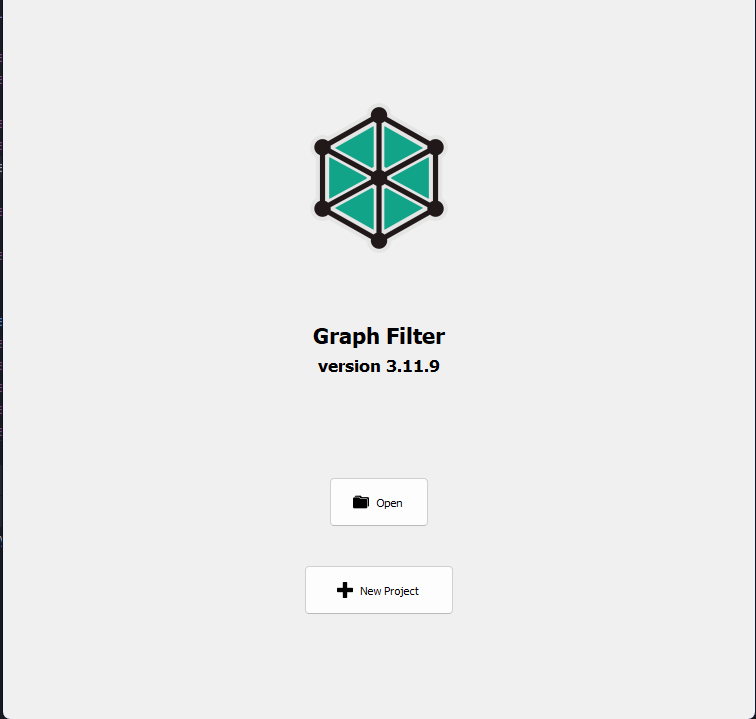
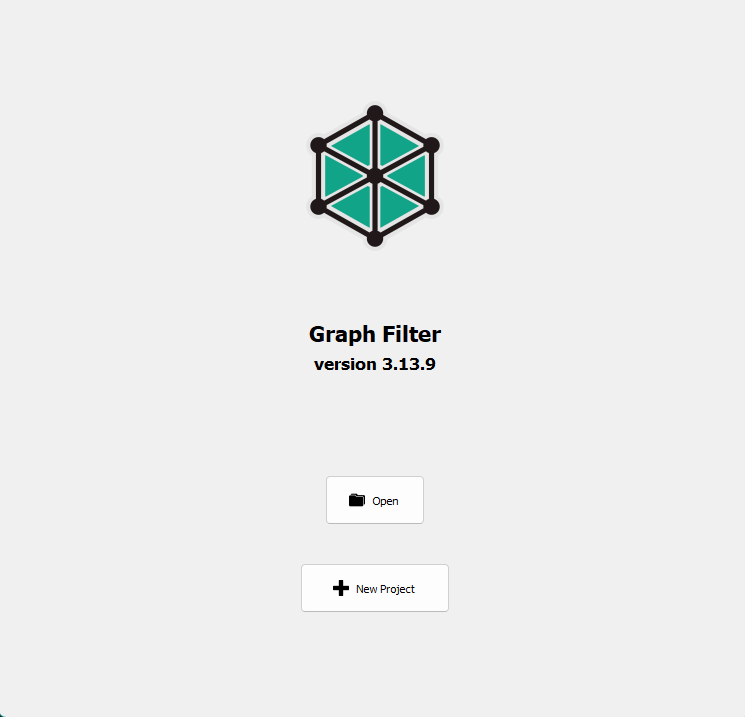
Implement `Diamond-Free` invariants (#463)

diff --git a/source/store/operations_and_invariants/bool_invariants.py b/source/store/operations_and_invariants/bool_invariants.py
@@ -1,5 +1,3 @@
-import itertools
-
 import grinpy as gp
 import networkx as nx
 import networkx.algorithms.threshold
@@ -829,11 +827,7 @@ class GemFree(InvariantBool):
         gem_graph.add_nodes_from(range(5))
         gem_graph.add_edges_from([(0, 1), (0, 2), (0, 3), (0, 4), (1, 2), (2, 3), (3, 4)])
 
-        for node_subset in set(itertools.combinations(graph.nodes(), 5)):
-            subgraph = graph.subgraph(list(node_subset))
-            if nx.is_isomorphic(subgraph, gem_graph):
-                return False
-        return True
+        return not Utils.has_isomorphic_subgraph(graph, gem_graph)
 
     @staticmethod
     def print(graph, precision):
@@ -851,12 +845,47 @@ class DartFree(InvariantBool):
         new_node = max(dart_graph.nodes()) + 1
         dart_graph.add_edge(new_node, 2)
 
-        for node_subset in set(itertools.combinations(graph.nodes(), 5)):
-            subgraph = graph.subgraph(list(node_subset))
-            if nx.is_isomorphic(subgraph, dart_graph):
-                return False
-        return True
+        return not Utils.has_isomorphic_subgraph(graph, dart_graph)
 
     @staticmethod
     def print(graph, precision):
         return Utils.print_boolean(DartFree.calculate(graph), precision)
+
+
+class DiamondFree(InvariantBool):
+    name = "Diamond-free"
+    type = 'bool_structural'
+
+    @staticmethod
+    def calculate(graph):
+        diamond_graph = nx.diamond_graph()
+
+        return not Utils.has_isomorphic_subgraph(graph, diamond_graph)
+
+    @staticmethod
+    def print(graph, precision):
+        return Utils.print_boolean(DiamondFree.calculate(graph), precision)
+
+
+class DoubleDiamondFree(InvariantBool):
+    name = "Double Diamond-free"
+    type = 'bool_structural'
+
+    @staticmethod
+    def calculate(graph):
+        double_diamond_graph = nx.Graph()
+
+        central_node = 0
+        double_diamond_graph.add_node(central_node)
+
+        double_diamond_graph.add_edges_from([(1, 2), (2, 3)])
+        double_diamond_graph.add_edges_from([(4, 5), (5, 6)])
+
+        for node in range(1, 7):
+            double_diamond_graph.add_edge(central_node, node)
+
+        return not Utils.has_isomorphic_subgraph(graph, double_diamond_graph)
+
+    @staticmethod
+    def print(graph, precision):
+        return Utils.print_boolean(DoubleDiamondFree.calculate(graph), precision)

diff --git a/source/store/operations_and_invariants/invariants.py b/source/store/operations_and_invariants/invariants.py
@@ -1,3 +1,6 @@
+import itertools
+
+import networkx as nx
 import numpy as np
 import numpy.linalg as la
 
@@ -153,3 +156,11 @@ class UtilsToInvariants:
         trace = matrix.trace()
         eig = UtilsToInvariants.spectrum(matrix)
         return sum([np.absolute(x - (float(trace) / float(matrix.shape[0]))) for x in eig])
+
+    @staticmethod
+    def has_isomorphic_subgraph(graph, target_graph):
+        for node_subset in itertools.combinations(graph.nodes(), len(target_graph.nodes())):
+            subgraph = graph.subgraph(node_subset)
+            if nx.is_isomorphic(subgraph, target_graph):
+                return True
+        return False

diff --git a/source/view/project/about_window.py b/source/view/project/about_window.py
@@ -7,7 +7,7 @@ class AboutWindow(QDialog):
     def __init__(self):
         super().__init__()
         self.data_title = r"<h1>Graph Filter</h1>"
-        self.data_version = r"<h2>Version 3.11.9</h2>"
+        self.data_version = r"<h2>Version 3.13.9</h2>"
         self.data_text = r" <p align='justify'> The goal of this software is to help researchers of Graph Theory and " \
                          r"Graph Spectral Theory establish or refute conjectures. The program allows, in an " \
                          r"intuitive way, the visualization and manipulation of graphs, using operations and a " \

diff --git a/source/view/welcome/welcome_content.py b/source/view/welcome/welcome_content.py
@@ -23,7 +23,7 @@ class WelcomeContent(QWidget):
         self.title.setText("<h1>Graph Filter</h1>")
         self.title.setAlignment(QtCore.Qt.AlignCenter)
 
-        self.version.setText("<h2>version 3.11.9</h2>")
+        self.version.setText("<h2>version 3.13.9</h2>")
         self.version.setAlignment(QtCore.Qt.AlignCenter)
 
         self.logo.setPixmap(QPixmap("resources/logos/graph_filter.png").scaled(150, 150, QtCore.Qt.KeepAspectRatio,
